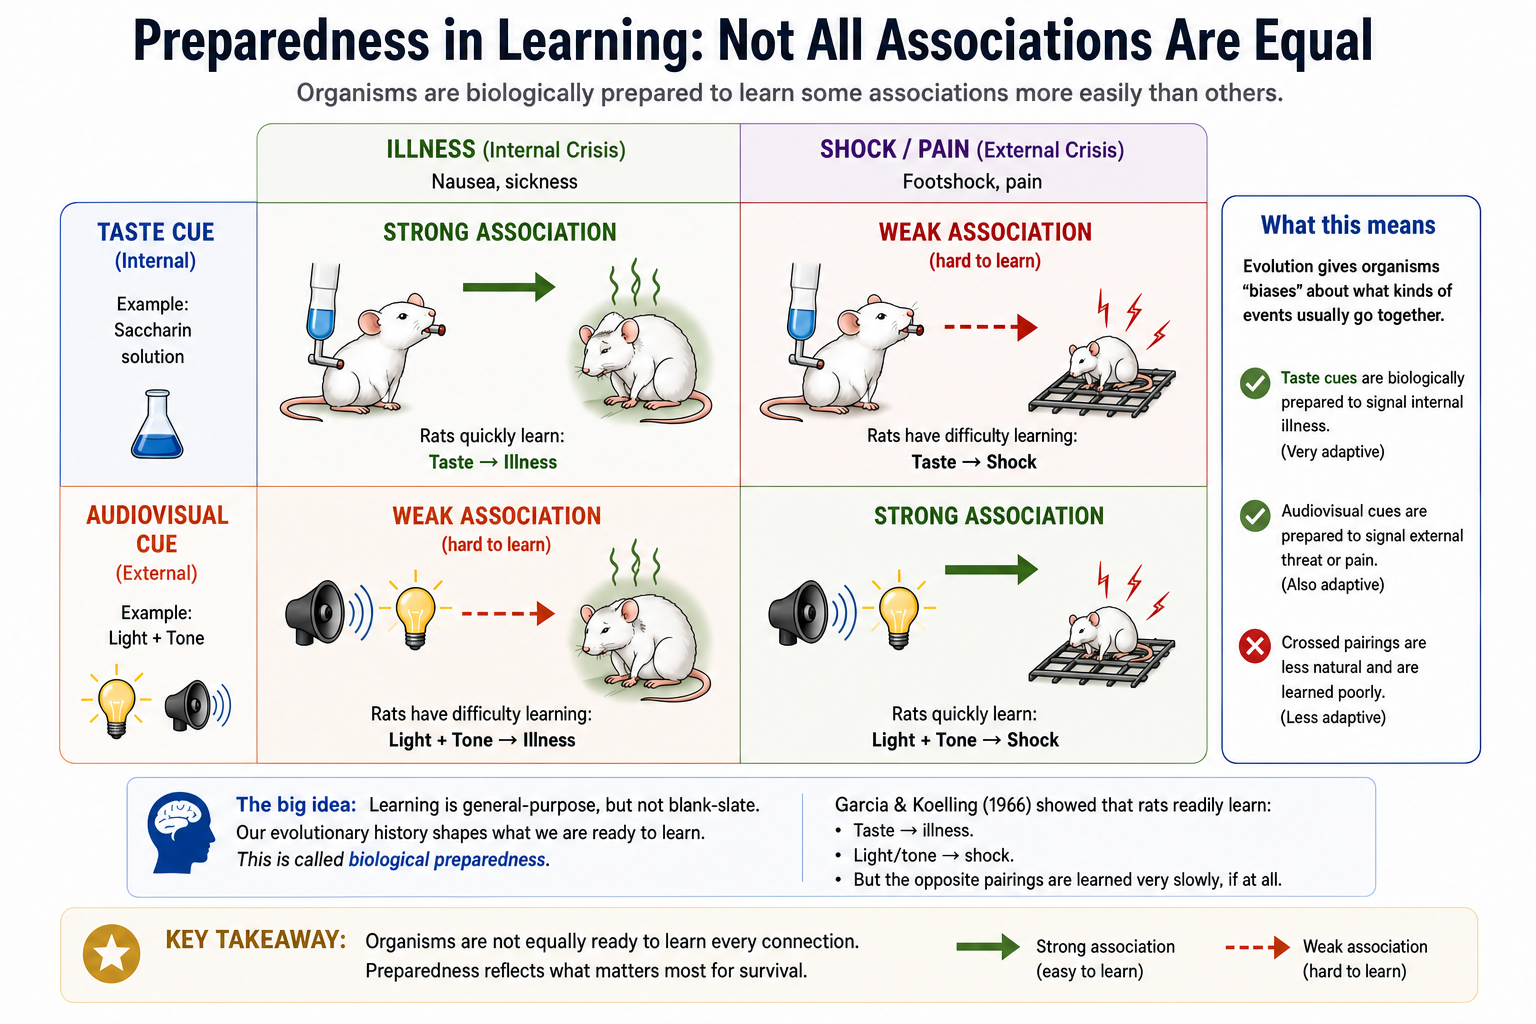
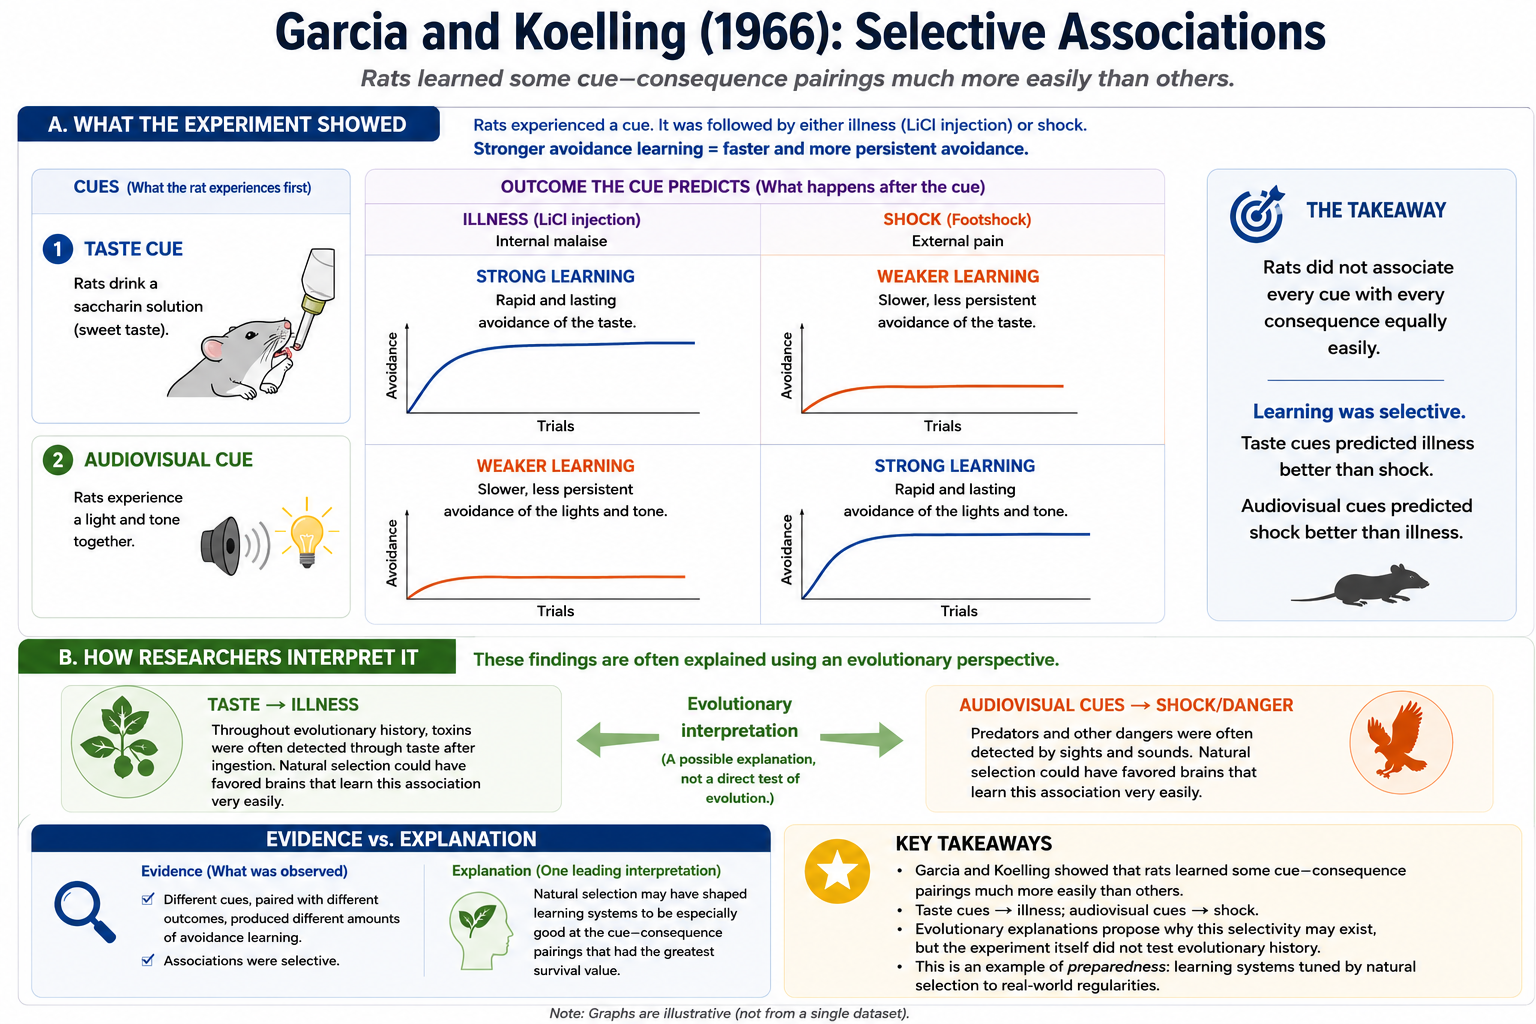
1015

Changed region(s): [[0.0, 0.0, 0.9688, 1.0], [0.4688, 0.4688, 0.5, 0.5]]

diff --git a/docs/chapters/07-learning.html b/docs/chapters/07-learning.html
@@ -112,10 +112,11 @@
       <div class="callout-title">Stop and Retrieve</div>
       <p>Before reading on — in one sentence, what is the actual difference between "positive" and "negative" as used in this section, and how is that different from how those words are used in ordinary conversation?</p>
     </div>
-    <p>Not every reinforced behavior gets reinforced every single time, and <em>how</em> reinforcement is scheduled turns out to matter enormously for how persistent the resulting behavior is. A <strong>fixed-ratio schedule</strong> reinforces a behavior after a set number of responses (every fifth lever press); a <strong>variable-ratio schedule</strong> reinforces after an unpredictable number of responses, averaging out to some value (slot machines are the textbook example, and not by accident — variable-ratio schedules produce extremely high, steady response rates and are notoriously resistant to extinction, because the organism can never be sure that the <em>next</em> response is not the one that pays off). A <strong>fixed-interval schedule</strong> reinforces the first response after a set amount of time has passed (a student who studies more intensely in the days leading up to a scheduled exam — behavior that characteristically slows down right after the exam and ramps back up as the next one approaches); a <strong>variable-interval schedule</strong> reinforces the first response after an unpredictable amount of time (checking your phone for a new message — you cannot speed up when the message arrives, but you also never know exactly when to expect it, which produces a slow, steady rate of checking rather than the start-stop pattern of fixed intervals). Of the four, variable-ratio schedules generally produce the highest resistance to extinction — the behavior that is hardest to talk someone out of is usually the one that has, at some point, paid off unpredictably.</p>
-    <figure class="chapter-figure wide">
-      <img src="../images/ch07/fig_reinforcement_schedules.png" alt="Cumulative response curves for the four reinforcement schedules. Fixed-ratio produces a burst of responding followed by a pause (a &quot;scallop&quot; tied to response count); variable-ratio produces a high, steady rate with the greatest resistance to extinction; fixed-interval produces a scalloped pattern tied to elapsed time; variable-interval produces a steady, moderate rate with no long pauses." />
-      <figcaption><strong>Figure 7.4.</strong> Cumulative response curves for the four reinforcement schedules. Fixed-ratio produces a burst of responding followed by a pause (a "scallop" tied to response count); variable-ratio produces a high, steady rate with the greatest resistance to extinction; fixed-interval produces a scalloped pattern tied to elapsed time; variable-interval produces a steady, moderate rate with no long pauses.</figcaption>
+    <p>Not every response is reinforced every time. A <strong>schedule of reinforcement</strong> specifies which responses produce reinforcement. A <strong>fixed-ratio</strong> schedule reinforces after a set number of responses, often producing rapid responding followed by a post-reinforcement pause. A <strong>variable-ratio</strong> schedule reinforces after an unpredictable number of responses around an average and often produces high, steady responding. A <strong>fixed-interval</strong> schedule reinforces the first response after a set period has elapsed, often producing a pause followed by accelerating responding as the interval approaches. A <strong>variable-interval</strong> schedule reinforces the first response after changing, unpredictable intervals and often produces steady, moderate responding.</p>
+    <p>These are characteristic patterns from controlled preparations, not laws that make every real-world behavior look identical. Species, task, reinforcement history, and the exact contingency matter. Under common laboratory conditions, intermittently reinforced behavior — especially behavior established on variable-ratio schedules — can persist longer during extinction than continuously or predictably reinforced behavior. The safe conclusion is not “unpredictability always makes behavior impossible to extinguish.” It is that reinforcement history changes what the absence of reinforcement means.</p>
+    <figure class="chapter-figure wide expandable">
+      <a class="figure-expand-toggle" href="../images/ch07/fig_reinforcement_schedules.png" aria-label="Expand figure"><img src="../images/ch07/fig_reinforcement_schedules.png" alt="Four color-coded columns pair reinforcement-rule diagrams with cumulative-response records. Fixed ratio shows reinforcement after a set response count and a post-reinforcement pause followed by a rapid run. Variable ratio shows reinforcement after unpredictable response counts and high, relatively steady responding. Fixed interval shows reinforcement for the first response after each set interval and a cumulative scalloped record with pauses followed by acceleration. Variable interval shows reinforcement for the first response after changing intervals and steady, moderate responding. A smaller extinction graph normalizes each condition to 100 percent of its own pre-extinction response-rate baseline; illustrative points show responding declining more gradually after an intermittent than a continuous reinforcement history. The figure distinguishes established response pattern from extinction persistence and explicitly states that acquisition speed is not depicted." /></a>
+      <figcaption><strong>Figure 7.4.</strong> Reinforcement schedules shape established response patterns, while reinforcement history can influence persistence after reinforcement stops. Variable-ratio and variable-interval schedules commonly produce relatively steady responding. Fixed-ratio schedules produce post-reinforcement pauses followed by rapid runs, whereas fixed-interval schedules can produce pauses followed by accelerating responding. These cumulative records illustrate characteristic shapes rather than universal rate rankings. The extinction comparison illustrates a common partial-reinforcement extinction effect: responding can decline more slowly after intermittent than continuous reinforcement when response rate is evaluated relative to each condition’s own baseline. Neither panel shows speed of initial acquisition.</figcaption>
     </figure>
     <p>None of this explains how a behavior that an organism has never spontaneously performed gets reinforced in the first place — you cannot reinforce a lever press the first time if the rat has never once pressed the lever. <strong>Shaping</strong> solves this by reinforcing successive approximations of a target behavior: rewarding behavior that is merely <em>closer</em> to the final goal, then progressively raising the bar as the organism's behavior improves, until the full target behavior is in place. Skinner himself described the method in a 1951 <em>Scientific American</em> piece aimed at a general audience, using the example of training a pigeon: rather than waiting indefinitely for a pigeon to spontaneously peck a specific spot, a trainer first reinforces any movement toward that spot, then only movements closer still, narrowing the criterion step by step (Skinner, 1951). The same logic is at work whenever a dog trainer rewards a dog for lying down halfway before eventually requiring the full position, or a teacher gives credit for a partially correct proof before expecting full rigor — shaping is, in effect, a method for using reinforcement to build behavior that does not yet exist, by reinforcing the path toward it rather than waiting for the destination.</p>
     <p>A well-practiced operant sequence can also become a <strong>habit</strong>: an action script that runs automatically when the right cue appears. Habits are efficient because they compress repeated learning into a fast response — you do not deliberate each step of brushing your teeth, checking your phone, or taking the same route across campus. But that efficiency has a cost. A habit can keep running after the context that originally made it useful has changed, which is why people sometimes repeat behaviors they no longer endorse, no longer enjoy, or no longer need. In this sense, habits show the same efficiency-versus-flexibility trade-off this book keeps returning to: the nervous system compresses what has worked before, and that compression usually helps — until the world changes.</p>
@@ -184,7 +185,7 @@
       <p>RLHF borrows conditioning's shaping mechanism without the motivated organism underneath it — which is why a heavily RLHF-trained model can reproduce the surface pattern of conditioned behavior (responding predictably to cues) while having none of the internal anticipatory experience that, in a real animal, is what reinforcement actually reinforces.</p>
     </div>
     <h2 id="chapter-summary">Chapter Summary</h2>
-    <p>Classical conditioning is learning that one stimulus (a CS) predicts another (a UCS), producing an elicited conditioned response; the core vocabulary — UCS, UCR, CS, CR — plus acquisition, extinction, spontaneous recovery, generalization, and discrimination describe how that learning is built, maintained, and lost, and Watson and Rayner's ethically troubling "Little Albert" study remains the field's clearest (and most cautionary) demonstration of conditioned fear in a human subject. Operant conditioning, built on Thorndike's law of effect and developed extensively by Skinner, is learning that a behavior predicts a consequence; positive and negative reinforcement increase behavior (by adding or removing a stimulus, respectively) while positive and negative punishment decrease it, schedules of reinforcement determine how persistent the resulting behavior is (variable-ratio schedules are the most resistant to extinction), and shaping builds entirely new behavior by reinforcing successive approximations toward it. Extinction, habit, and dopamine prediction error all show the same deeper principle: learning updates the organism's model of what predicts what, but old learning often remains available underneath the update — an old association resurfacing under stress or a new context is not the model malfunctioning, it is a compressed, usually-good-enough model doing exactly what it is supposed to do, holding onto evidence that used to work instead of erasing it outright, in case the world reverts to what it used to be.</p>
+    <p>Operant conditioning changes behavior through consequences. Reinforcement increases behavior; punishment decreases it; positive and negative mean adding and removing. Shaping builds new behavior through successive approximations. Reinforcement schedules produce characteristic response patterns, but their effects depend on the exact contingency, task, species, and learning history. Habits and extinction both expose a stability-versus-flexibility trade-off: past learning can continue to guide behavior after conditions change.</p>
     <p>Evolution shapes which associations an organism learns easily: Garcia and Koelling's taste-aversion research showed that rats readily associate taste with illness and audiovisual cues with pain, but not the reverse, a phenomenon called preparedness. Conditioning is not the whole story of learning, either — Bandura's Bobo doll research demonstrated observational learning (acquiring behavior by watching others, shaped by vicarious reinforcement), Tolman's maze studies demonstrated latent learning (learning that occurs without reinforcement and surfaces only when there is a reason to use it, via an internal cognitive map), and mirror neurons offer a partial, evidence-supported-but-frequently-overstated biological mechanism for how observation alone can engage some of the same neural territory as direct action. Finally, dopamine tracks prediction and reward uncertainty rather than pleasure itself — a correction that reframes both stimulant drug action and the power of unpredictable reinforcement schedules, though the underlying signal varies by pathway and context rather than doing one single job; intrinsic and extrinsic motivation interact in ways that are not simply additive, as Deci's overjustification research demonstrated.</p>
     <h2 id="connections">Connections</h2>
     <table>
@@ -280,17 +281,17 @@
       </details>
     </div>
     <div class="review-q">
-      <p><strong>4.</strong> Which reinforcement schedule is generally the most resistant to extinction, and why?</p>
+      <p><strong>4.</strong> In a laboratory, a rat receives food after an unpredictable number of lever presses. When food delivery stops, lever pressing persists for many trials. Which statement is most defensible?</p>
       <ol class="options" type="a">
-        <li>fixed-ratio, because the number of responses needed is predictable</li>
-        <li>fixed-interval, because reinforcement always arrives on a strict timetable</li>
-        <li>variable-ratio, because the organism can never be sure the next response will not be the one that pays off</li>
-        <li>all schedules produce identical resistance to extinction</li>
+        <li>The rat was on a variable-ratio schedule, and intermittent reinforcement history can produce persistent responding during extinction</li>
+        <li>The rat was on a fixed-interval schedule because time always causes scalloped responding</li>
+        <li>Variable-ratio schedules make every behavior permanently resistant to extinction</li>
+        <li>The result proves dopamine alone caused the persistence</li>
       </ol>
       <details>
         <summary>Show answer &amp; rationale</summary>
         <div class="answer">
-          <p><strong>Answer: c.</strong> Why (b) is tempting: fixed-interval schedules do reliably produce reinforcement, but predictability is exactly what makes them comparatively easy to extinguish once reinforcement stops — it is the unpredictability of variable-ratio schedules, not reliability, that produces the strongest resistance to extinction.</p>
+          <p><strong>Answer: a.</strong> Why (c) is tempting: variable-ratio responding can be highly persistent under common laboratory conditions, but schedule effects depend on the organism, task, contingency, and reinforcement history. Persistent does not mean permanent.</p>
         </div>
       </details>
     </div>
@@ -501,5 +502,6 @@
   </main>
 </div>
 <script src="../js/nav.js"></script>
+<script src="../js/figure-expand.js"></script>
 </body>
 </html>

diff --git a/docs/images/ch07/README_captions_alt_text_attribution.md b/docs/images/ch07/README_captions_alt_text_attribution.md
@@ -1,0 +1,14 @@
+# Chapter 7 Figure Metadata
+
+## Figure 7.4 — Reinforcement schedules
+
+- **Files:** `fig_reinforcement_schedules.svg` (editable source); `fig_reinforcement_schedules.png` (2400 × 1680 rendered asset).
+- **Caption:** Reinforcement schedules shape established response patterns, while reinforcement history can influence persistence after reinforcement stops. Variable-ratio and variable-interval schedules commonly produce relatively steady responding. Fixed-ratio schedules produce post-reinforcement pauses followed by rapid runs, whereas fixed-interval schedules can produce pauses followed by accelerating responding. These cumulative records illustrate characteristic shapes rather than universal rate rankings. The extinction comparison illustrates a common partial-reinforcement extinction effect: responding can decline more slowly after intermittent than continuous reinforcement when response rate is evaluated relative to each condition’s own baseline. Neither panel shows speed of initial acquisition.
+- **Alt text:** Four color-coded columns pair reinforcement-rule diagrams with cumulative-response records. Fixed ratio shows reinforcement after a set response count and a post-reinforcement pause followed by a rapid run. Variable ratio shows reinforcement after unpredictable response counts and high, relatively steady responding. Fixed interval shows reinforcement for the first response after each set interval and a cumulative scalloped record with pauses followed by acceleration. Variable interval shows reinforcement for the first response after changing intervals and steady, moderate responding. A smaller extinction graph normalizes each condition to 100 percent of its own pre-extinction response-rate baseline; illustrative points show responding declining more gradually after an intermittent than a continuous reinforcement history. The figure distinguishes established response pattern from extinction persistence and explicitly states that acquisition speed is not depicted.
+- **Origin and attribution:** Original figure created for Oxford Psychology 101.
+- **Creation method:** Deterministic hand-authored SVG using vector shapes, paths, text, and system fonts; PNG rendered from the SVG with `resvg-py`. The earlier Figure 7.4 was used only as a layout and visual-grammar reference.
+- **External assets:** None. No external copyrighted image assets were used.
+- **License / public-sharing status:** Original course artwork; approved for public sharing with the Oxford Psychology 101 textbook.
+- **Data status:** The cumulative records are schematic characteristic shapes. The extinction-session values are illustrative teaching values, not measurements reproduced from a particular experiment.
+- **Interpretation caveats:** Panel A depicts established responding while reinforcement is available, not speed of initial acquisition and not a universal quantitative ranking of response rates. Exact rates depend on schedule values, reinforcement density, organism, task, and history. Panel B illustrates a common partial-reinforcement extinction effect after normalizing each history to its own baseline; it does not support a universal ordering among fixed-ratio, variable-ratio, fixed-interval, and variable-interval schedules.
+- **Figure number in image:** None.

diff --git a/source/chapters/ch07-learning.md b/source/chapters/ch07-learning.md
@@ -97,7 +97,7 @@ Not every response is reinforced every time. A **schedule of reinforcement** spe
 
 These are characteristic patterns from controlled preparations, not laws that make every real-world behavior look identical. Species, task, reinforcement history, and the exact contingency matter. Under common laboratory conditions, intermittently reinforced behavior — especially behavior established on variable-ratio schedules — can persist longer during extinction than continuously or predictably reinforced behavior. The safe conclusion is not "unpredictability always makes behavior impossible to extinguish." It is that reinforcement history changes what the absence of reinforcement means.
 
-![Figure 7.4. Characteristic cumulative-response patterns under four reinforcement schedules. Fixed ratio shows rapid responding with a post-reinforcement pause; variable ratio shows high, relatively steady responding; fixed interval shows a pause followed by acceleration as the interval elapses; variable interval shows steady, moderate responding. These are schematic laboratory patterns, not universal signatures of every organism or task.](../images/ch07/fig_reinforcement_schedules.png)
+![Figure 7.4. Four color-coded columns pair reinforcement-rule diagrams with cumulative-response records. Fixed ratio shows reinforcement after a set response count and a post-reinforcement pause followed by a rapid run. Variable ratio shows reinforcement after unpredictable response counts and high, relatively steady responding. Fixed interval shows reinforcement for the first response after each set interval and a cumulative scalloped record with pauses followed by acceleration. Variable interval shows reinforcement for the first response after changing intervals and steady, moderate responding. A smaller extinction graph normalizes each condition to 100 percent of its own pre-extinction response-rate baseline; illustrative points show responding declining more gradually after an intermittent than a continuous reinforcement history. The figure distinguishes established response pattern from extinction persistence and explicitly states that acquisition speed is not depicted.](../images/ch07/fig_reinforcement_schedules.png)
 
 **Shaping** builds behavior by reinforcing successive approximations of a target. A trainer does not wait indefinitely for a pigeon to peck one precise spot. The trainer first reinforces movement toward the spot, then closer approaches, then the peck itself, progressively raising the criterion (Skinner, 1951). The same logic appears when a coach reinforces parts of a complex movement before requiring the full sequence. Shaping works because reinforcement can select a path toward behavior that does not yet occur in its final form.
 

diff --git a/GPT_project_log.md b/GPT_project_log.md
@@ -290,3 +290,10 @@ Repository rules and conventions live in `AGENTS.md`, not here. Current state an
 - **Validation:** Static verification confirmed the seven updated objectives; review items that separate evidence from interpretation and require integration; the reward-prediction-error trace replacement; CS–UCS terminology in the lab event log and explanation; and explicit language that the simulator's rebound is illustrative rather than empirical evidence. Confirmed that `docs/chapters/07-learning.html` remains intentionally stale pending figure revision and regeneration.
 - **Commits already produced:** `3362f4d` — add Chapter 7 pre-review audit; `1360386` — revise Chapter 7 scientific architecture; `ba21d26` — calibrate Chapter 7 conditioning lab explanation; `ef87766` — repair conditioning simulator model claims; `a464a60` — update handoff for Chapter 7 revision.
 - **Remaining work:** Directly inspect all nine Chapter 7 figure binaries; rebuild Figures 7.4, 7.5, 7.6, and 7.8; create `docs/images/ch07/README_captions_alt_text_attribution.md`; reconcile the Chapter 7 section of `source/visuals-inventory.md`; regenerate `docs/chapters/07-learning.html` only after the revised figures are approved; validate source/HTML parity, figure readability, expandable behavior, links, lab flow, and mobile rendering; and complete Jon's line-by-line review before calling Chapter 7 complete.
+
+### 2026-07-16 - Chapter 7 Figure 7.4 Reinforcement-Schedules Rebuild
+
+- **Scope and files:** Rebuilt only Figure 7.4 as `docs/images/ch07/fig_reinforcement_schedules.svg` and its high-resolution PNG, updated the Figure 7.4 source caption/alt surface, narrowly synchronized the corresponding generated-HTML figure block, enabled that figure’s documented expand behavior, and created the Chapter 7 figure metadata manifest.
+- **Scientific decisions:** Kept fixed-ratio break-and-run responding distinct from fixed-interval cumulative scalloping; described variable-ratio and variable-interval responding without a universal rate or extinction ranking; added a normalized continuous-versus-intermittent extinction comparison that starts both histories at 100% of their own baselines; and stated that neither panel depicts acquisition speed.
+- **Validation:** Inspected the SVG and rendered PNG directly; corrected the fixed-interval trace so the cumulative record never resets; checked rule diagrams, labels, line wrapping, normalized extinction axes, schematic-data labeling, absence of an embedded figure number/watermark, image paths, alt/caption parity, expansion markup, and repository content checks.
+- **Remaining caveat:** Figure 7.4 is a schematic teaching figure rather than a reproduction of one empirical dataset.
